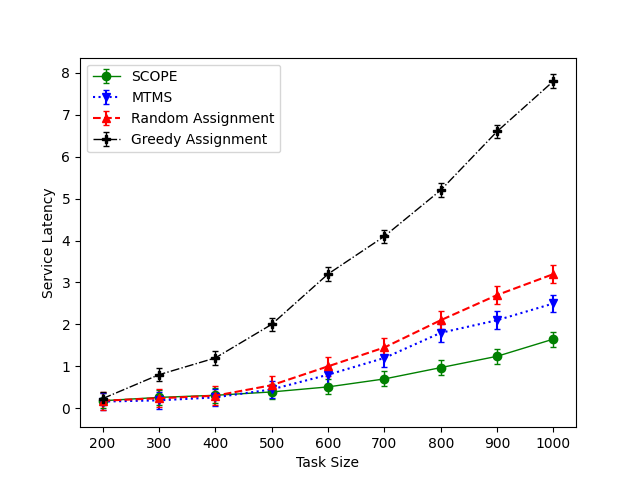
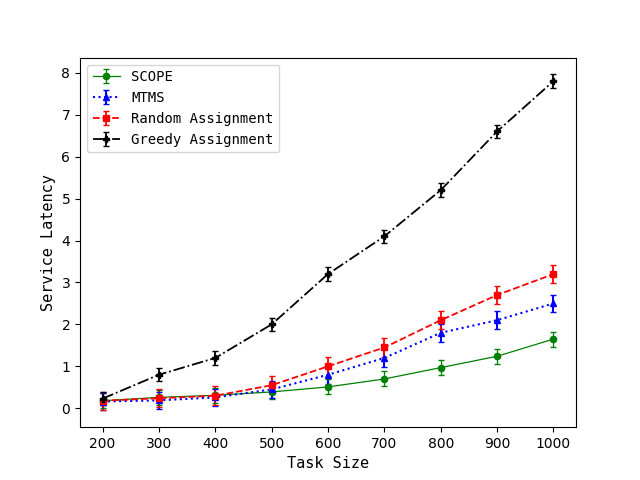
error bar updated

diff --git a/dummygraph.py b/dummygraph.py
@@ -1,5 +1,6 @@
 import matplotlib.pyplot as plt
 import numpy as np
+from matplotlib import font_manager
 
 
 def subtaskVsLatency():
@@ -275,15 +276,15 @@ def taskSizeVsLatency():
         y3.append(float(lines[3]))
         y4.append(float(lines[4]))
 
-    plt.xlabel('Task Size')
-    plt.ylabel('Service Latency')
+    plt.xlabel('Task Size', fontsize=11, fontname='monospace')
+    plt.ylabel('Service Latency', fontsize=11, fontname='monospace')
 
-    plt.errorbar(x1, y4, color='green', label='SCOPE', yerr=0.18, marker='o', capsize=2, linestyle='solid', linewidth=1)
-    plt.errorbar(x1, y1, color='b', label='MTMS', yerr=0.21, marker='v', capsize=2, linestyle='dotted')
-    plt.errorbar(x1, y2, color='r', label='Random Assignment', yerr=0.22, marker='^', capsize=2, linestyle='dashed')
-    plt.errorbar(x1, y3, color='k', label='Greedy Assignment', yerr=0.16, marker='P', capsize=2, linestyle='dashdot', linewidth=1)
-
-    plt.legend()
+    plt.errorbar(x1, y4, color='g', label='SCOPE', yerr=0.18, marker='o', capsize=2, linestyle='solid', linewidth=0.9, markersize=4.5)
+    plt.errorbar(x1, y1, color='b', label='MTMS', yerr=0.21, marker='^', capsize=2, linestyle='dotted', linewidth=1.5, markersize=4.7)
+    plt.errorbar(x1, y2, color='r', label='Random Assignment', yerr=0.22, marker='s', capsize=2, linestyle='dashed', linewidth=1.3, markersize=4.7)
+    plt.errorbar(x1, y3, color='k', label='Greedy Assignment', yerr=0.16, marker='P', capsize=2, linestyle='dashdot', linewidth=1.3, markersize=4.7)
+    font = font_manager.FontProperties(family='monospace', weight='regular', style='normal', size=10)
+    plt.legend(prop=font)
     plt.savefig("Images/tasksizevslatency.png")
     plt.show()
 
